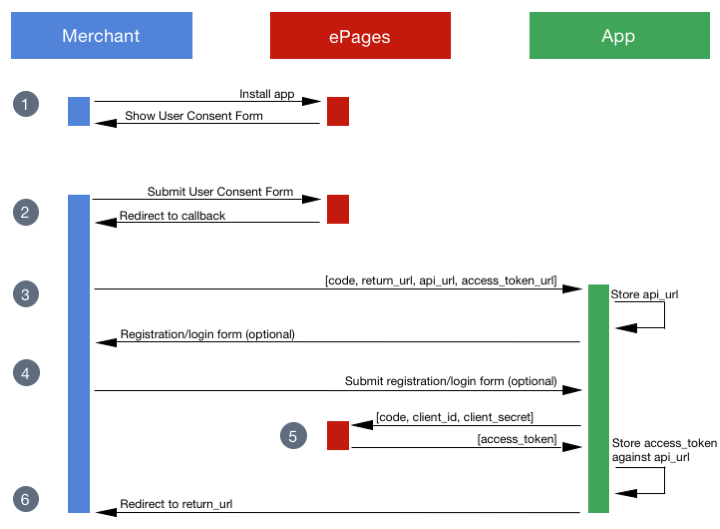
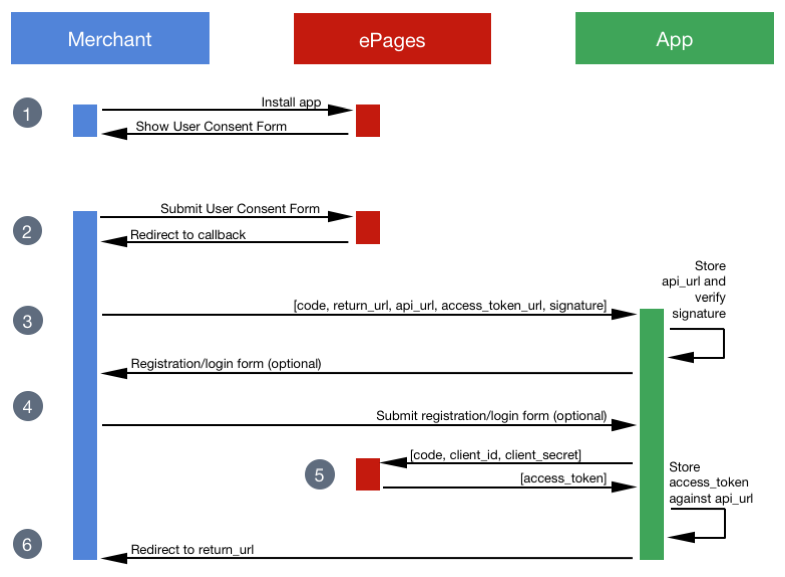
Include signature parameter (#766)
Include signature query param

UC-139
* Rework step 3
* Update chart
* Add review feedback

diff --git a/apps/install-app.md b/apps/install-app.md
@@ -60,7 +60,7 @@ All API access is over HTTPS.
 Example:
 
 {% highlight text %}
-GET /callback?code={code}&return_url={return_url}&api_url={api_url}&access_token_url={access_token_url} HTTP/1.1
+GET /callback?code={code}&signature={signature}&return_url={return_url}&api_url={api_url}&access_token_url={access_token_url} HTTP/1.1
 Host: crazytoppingapp.com
 {% endhighlight %}
 
@@ -72,8 +72,30 @@ Substitutions would be made as given in this example table:
 | {`api_url`}      | The base API URL, that uniquely identifies the merchant. The `api_url` differs for every merchant and has to be stored in the app.  | https://creamyiceshop.com/rs/shops/CreamyIceShop |
 | {`return_url`}    | The URL which the merchant should be redirected to after the app installation. | https://creamyiceshop.com/epages/CreamyIceShop.admin/?ObjectID=17811&ViewAction=MBO-ViewAppDetails&appID=54f46f318732110bd85f41c7 |
 | {`access_token_url`} | The URL to obtain the `access_token`. | https://creamyiceshop.com/rs/shops/CreamyIceShop/token. |
+| {`signature`}      | The signature is a message authentification code. It is calculated with the `code`, `access_token_url` and `client_secret`.    | jEPRUggebJDBsEnl1%2FpHlMUBxPbsELQihEVzbx2pFlM%3D |
 
-Your app can use the `code` in combination with your **Client ID** and **Client Secret** for obtaining an `access_token`. This code is temporary and will be obsolete after app installation.
+Your app can use the `code` in combination with your **Client ID** and **Client Secret** for obtaining an `access_token`.
+This code is temporary and will be obsolete after app installation.
+Although it is optional to validate the `signature` query parameter, we highly recommend to do so, in order to verify that your request was not changed, and for sure has been provided by ePages and no external, insecure party.
+
+In order to understand how to verify the `signature`, see the following Java code example:
+
+{% highlight java %}
+{
+import javax.crypto.Mac;
+import javax.crypto.spec.SecretKeySpec;
+import org.apache.commons.codec.CharEncoding;
+
+public String calculateSignature(String authCodeValue, String authTokenUrl, String secret) {
+    String HmacSHA256 = "HmacSHA256";
+
+    final Mac mac = Mac.getInstance(HmacSHA256);
+    mac.init(new SecretKeySpec(secret.getBytes(CharEncoding.UTF_8), HmacSHA256));
+
+    byte[] signature = mac.doFinal((authCodeValue + ":" + authTokenUrl).getBytes());
+    return Base64.getEncoder().encodeToString(signature);
+}
+{% endhighlight %}
 
 ### 4. Registration (optional)
 
